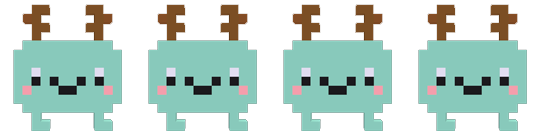
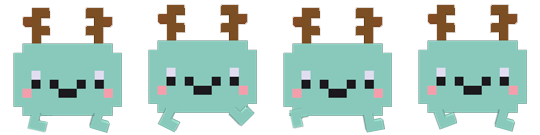
Added player crouching

diff --git a/public/ObstacleRace/src/models/Player.js b/public/ObstacleRace/src/models/Player.js
@@ -12,7 +12,13 @@ class Player extends Model {
             this.width, this.height, 6, 4);
 
         this.runningA = new Animation(images.running_player,
-            this.width, this.height, 6, 4);
+            this.width, this.height, 3, 4);
+
+        let image = new Image();
+        image.src = images.crouching_player;
+
+        this.crouchingA = new Animation(images.crouching_player,
+            this.width, image.height, 3, 4);
 
         this.animation = this.idleA;
 
@@ -21,19 +27,22 @@ class Player extends Model {
     update() {
         this.animation.update();
 
-        if (this.hitsBottom){
+        if (this.hitsBottom) {
             this.inTheAir = false;
         } else {
             this.inTheAir = true;
         }
-    
 
-        switch (this.estado) {
+
+        switch (this.state) {
             case PlayerStatuses.IDLE:
                 this.animation = this.idleA;
                 break;
             case PlayerStatuses.MOVING:
                 this.animation = this.runningA;
+                break;
+            case PlayerStatuses.CROUCHED:
+                this.animation = this.crouchingA;
                 break;
         }
     }
@@ -42,17 +51,48 @@ class Player extends Model {
         this.animation.paint(this.x, this.y);
     }
 
-    jump(){
-        if ( !this.inTheAir ) {
+    run() {
+        this.state = PlayerStatuses.MOVING;
+    }
+
+    stop() {
+        this.state = PlayerStatuses.IDLE;
+    }
+
+    jump() {
+        if (!this.inTheAir) {
             this.yv = -24;
             this.inTheAir = true;
         }
     }
 
-    crouch(){
-        if ( !this.inTheAir ) {
-            this.crouched = true;
+    crouch() {
+        if (!this.inTheAir) {
+            this.state = PlayerStatuses.CROUCHED
         }
-    
+
+    }
+
+    collidesCircle(model) {
+        if (this.state != PlayerStatuses.CROUCHED) {
+            console .log("a")
+            return super.collidesCircle(model);
+        }
+        else {
+            let collides = false;
+            
+
+            if (model.x - model.width / 2 <= this.x + this.width / 2
+                && model.x + model.width / 2 >= this.x - this.width / 2
+                && this.y + (this.height - 90)/ 2 >= model.y - model.height / 2
+                && this.y - (this.height - 90) / 2 <= model.y + model.height / 2) {
+
+                    console.log(this.y - (this.height + 90));
+                    console.log(model.y + model.height / 2)
+                collides = true;
+
+            }
+            return collides;
+        }
     }
 }

diff --git a/public/ObstacleRace/src/layers/HUDLayer.js b/public/ObstacleRace/src/layers/HUDLayer.js
@@ -1,5 +1,6 @@
 class HUDLayer extends Layer {
-  STEP = 20; 
+  STEP = 19; 
+  START = 85;
 
   constructor() {
     super();
@@ -10,13 +11,8 @@ class HUDLayer extends Layer {
   start() {
     this.progressBar = new Background(images.progressbar, 315, originalCanvasHeight - 65);
     this.flag = new Background(images.flag, 600, originalCanvasHeight - 65);
-    this.player1 = new Background(images.progress_indicator, 90, originalCanvasHeight - 65);
-    this.player2 = new Background(images.progress_indicator, 90, originalCanvasHeight - 65);
-  }
-
-  // En cada iteración fp del juego
-  update() {
-
+    this.player1 = new Background(images.progress_indicator, this.START, originalCanvasHeight - 65);
+    this.player2 = new Background(images.progress_indicator, this.START, originalCanvasHeight - 65);
   }
 
   paint() {
@@ -26,25 +22,9 @@ class HUDLayer extends Layer {
     this.player2.paint();
   }
 
-  updateGameState(state) {
-    this.status.value = "";
-    switch (state.result.status) {
-      case Statuses.WAITING:
-        //this.status.value = "Esperando jugadores...";
-        break;
-      case Statuses.PLAYING:
-        break;
-      case Statuses.DRAW:
-        // this.speed = 0;
-        //this.status.value = "Empate!";
-        break;
-      case Statuses.WIN:
-        //this.speed = 0;
-        //this.status.value = "Ha ganado " + state.result.winner.playerName + "!";
-        break;
-      default:
-        break;
-    }
+  updatePlayerPositions(state) {
+    this.player1.x = this.START + state.players[0].position * this.STEP;
+    this.player2.x = this.START + state.players[1].position * this.STEP;
   }
 
 }

diff --git a/public/ObstacleRace/src/layers/GameLayer.js b/public/ObstacleRace/src/layers/GameLayer.js
@@ -96,7 +96,7 @@ class GameLayer extends Layer {
       if (this.player.collides(obstacleIndicator)) {
         this.speed -= 1;
         this.obstacleIndicators.splice(0, 1);
-        socket.emit("action", {});
+        socket.emit("action", {obstaclesLeft: this.obstacleIndicators.length});
       }
     }
 
@@ -122,6 +122,7 @@ class GameLayer extends Layer {
   }
 
   processControls() {
+    this.player.run();
     // Eje Y
     if (controls.moveY > 0) {
       this.player.jump();
@@ -147,6 +148,7 @@ class GameLayer extends Layer {
       }
       xPos += 1000;
     }
+    this.player.run();
   }
 
   updateGameState(state) {
@@ -156,12 +158,15 @@ class GameLayer extends Layer {
         this.status.value = "Esperando jugadores...";
         break;
       case Statuses.PLAYING:
+        this.hud.updatePlayerPositions(state);
         break;
       case Statuses.DRAW:
+        this.player.stop();
         this.speed = 0;
         this.status.value = "Empate!";
         break;
       case Statuses.WIN:
+        this.player.stop();
         this.speed = 0;
         this.status.value = "Ha ganado " + state.result.winner.playerName + "!";
         break;

diff --git a/server/games/ObstacleRace.js b/server/games/ObstacleRace.js
@@ -2,7 +2,7 @@ const { BaseGame, Statuses } = require("./BaseGame");
 
 class ObstacleRace extends BaseGame {
   initializeGameState(room) {
-    const obstacles = Array.from({ length: 20 }, () =>
+    const obstacles = Array.from({ length: 25 }, () =>
       Math.round(Math.random())
     );
 
@@ -33,7 +33,7 @@ class ObstacleRace extends BaseGame {
 
     this.checkForEndOfGame(room);
 
-    this.updateGameState(room);
+    this.updateGameState(room, 'gameState')
   }
 
   checkForEndOfGame(room) {

diff --git a/public/ObstacleRace/src/Res.js b/public/ObstacleRace/src/Res.js
@@ -17,6 +17,7 @@ const images = {
     player : "res/player.png",
     idle_player: "res/idle_player.png",
     running_player: "res/running_player.png",
+    crouching_player: "res/crouching_player.png"
 };
 
 const imageRutes = Object.values(images);

diff --git a/public/common/src/Global.js b/public/common/src/Global.js
@@ -14,7 +14,8 @@ const Statuses = {
 const PlayerStatuses = {
   IDLE: 1,
   MOVING: 2,
-  HIT: 3
+  HIT: 3,
+  CROUCHED: 4,
 };
 
 
